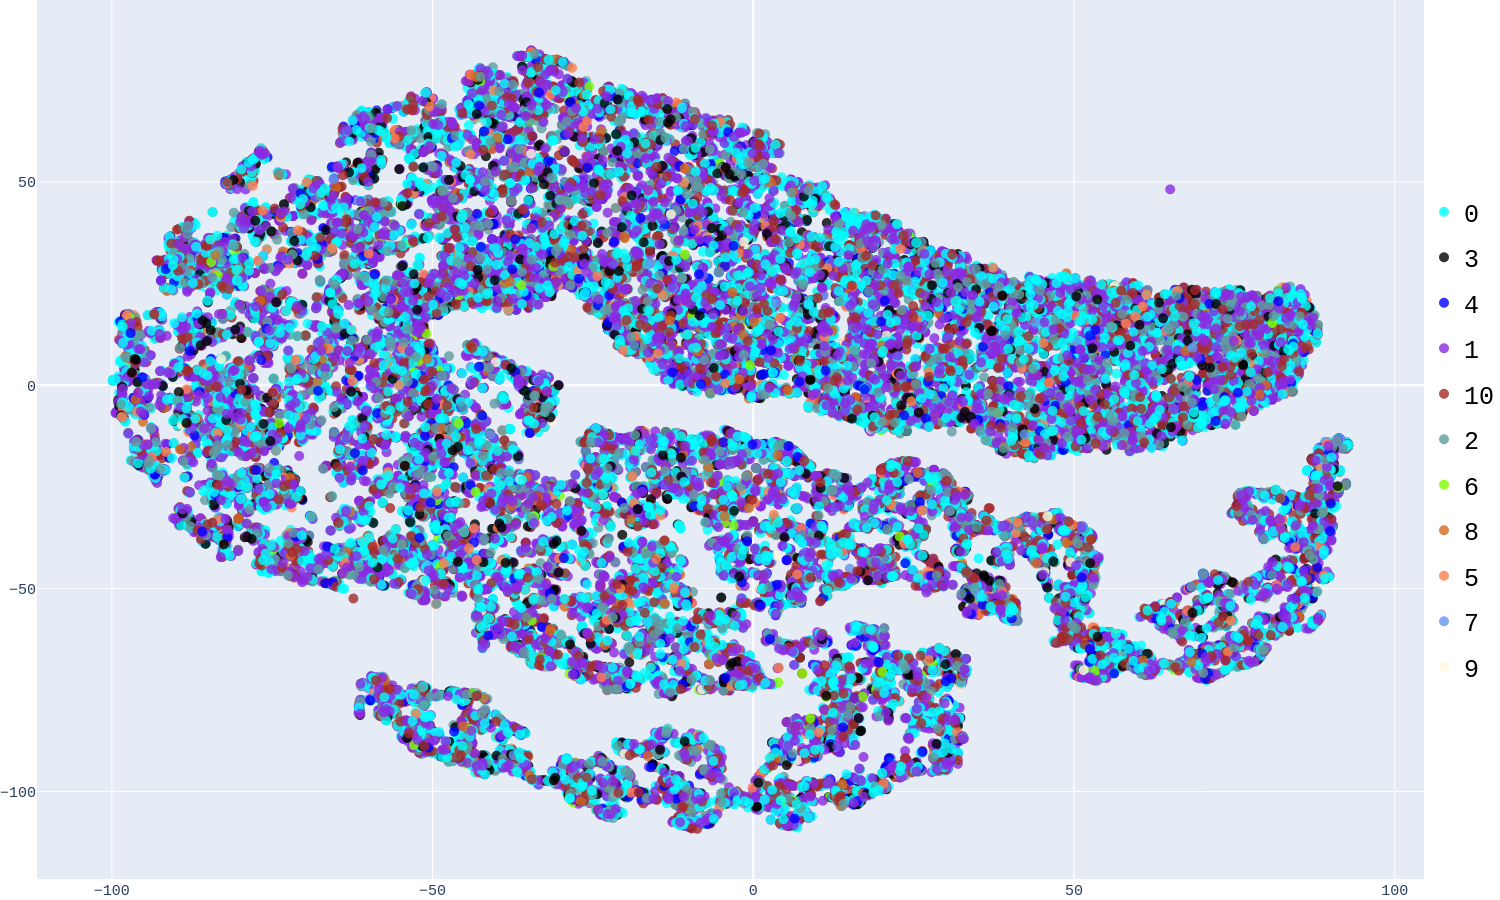
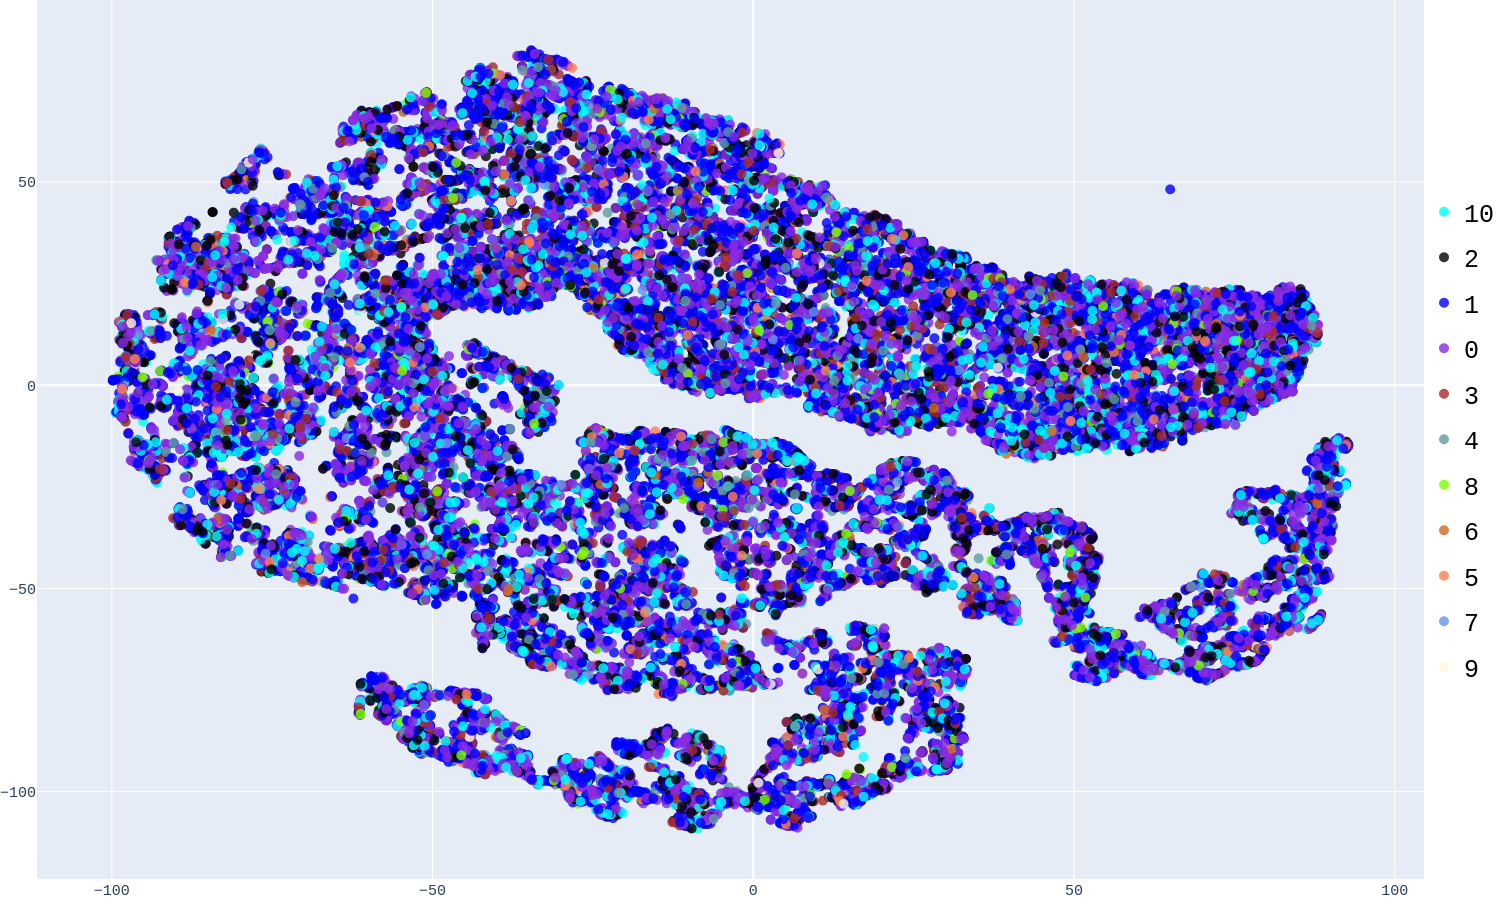
photos of embeddings

diff --git a/praca_inz/embeddings.py b/praca_inz/embeddings.py
@@ -96,8 +96,8 @@ def display_pca_scatterplot(ids, embeddings, category, limit=50):
 
 
     plot_figure = go.Figure(data = data, layout = layout)
-    plot_figure.write_image("images/TSNE_user_id_40000_bra_size_random.png")
-    plot_figure.show()
+    plot_figure.write_image("images/TSNE_cup_size_40000_bra_size_random.png")
+    # plot_figure.show()
 
 
 def main(args):
@@ -135,7 +135,7 @@ def main(args):
     # user_values = {thing.detach().numpy().tolist(): model.category_embedding(thing).detach().numpy().tolist() for batch in data_loader for thing in batch['category']}
 
     print(len(category), len(set(category.values())))
-    display_pca_scatterplot(list(user_values.keys()), list(user_values.values()), category, min(10000,len(user_values)))
+    display_pca_scatterplot(list(user_values.keys()), list(user_values.values()), category, min(40000,len(user_values)))
 
 if __name__ == "__main__":
 
